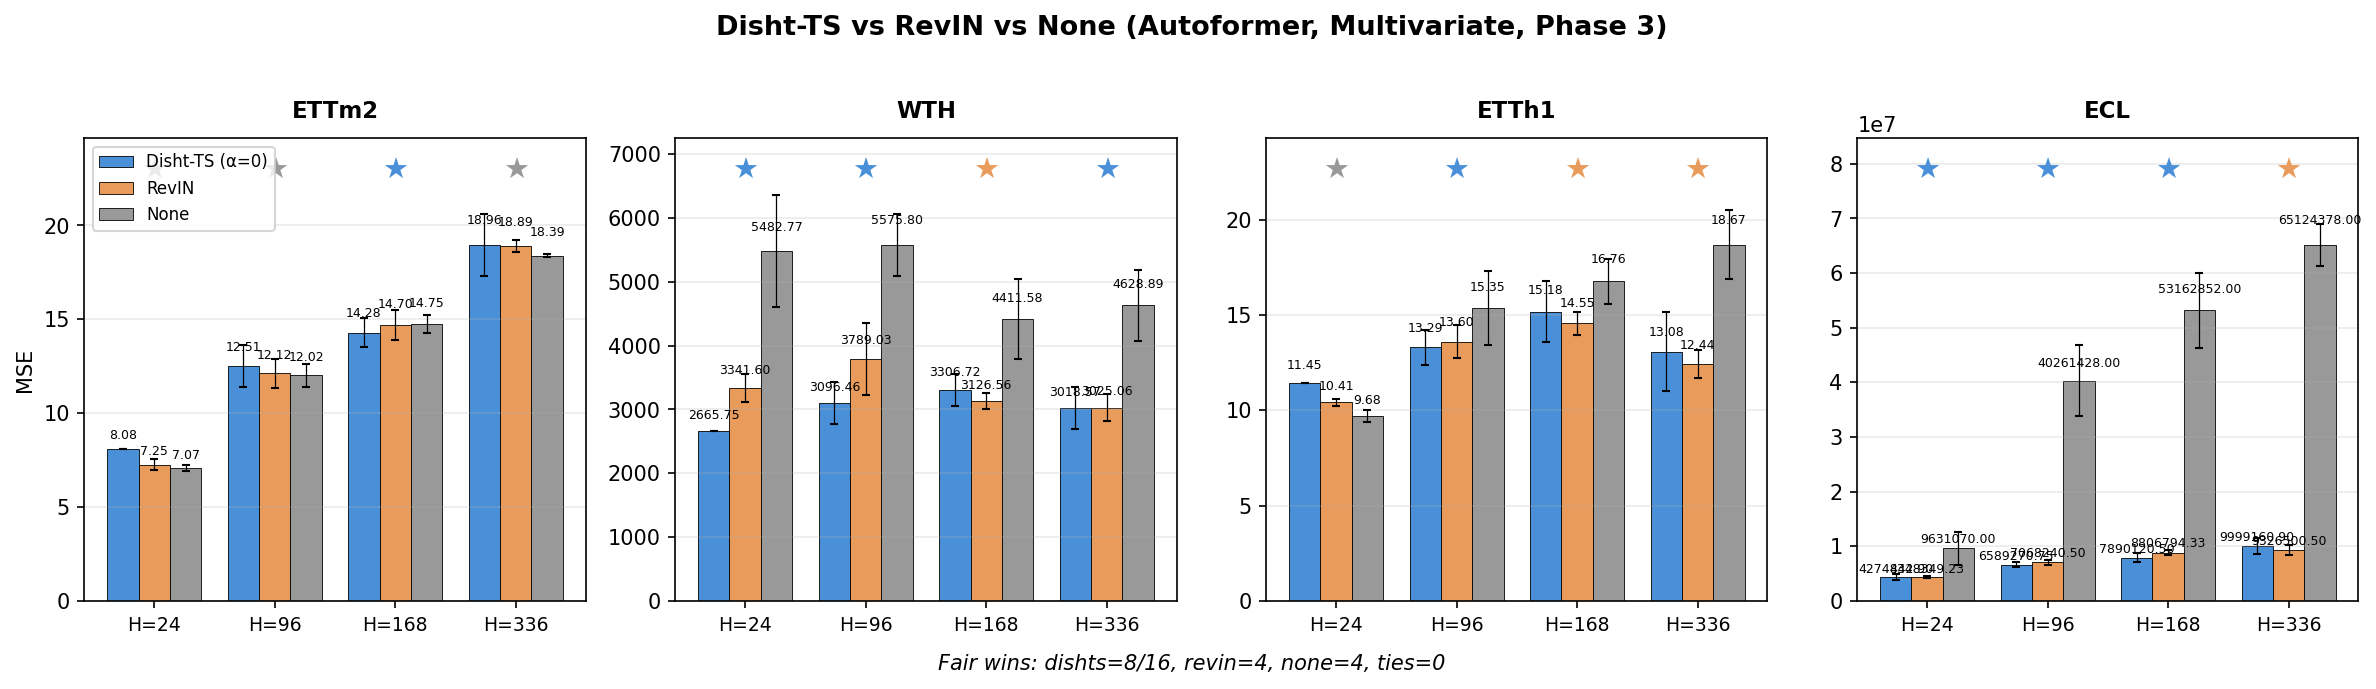
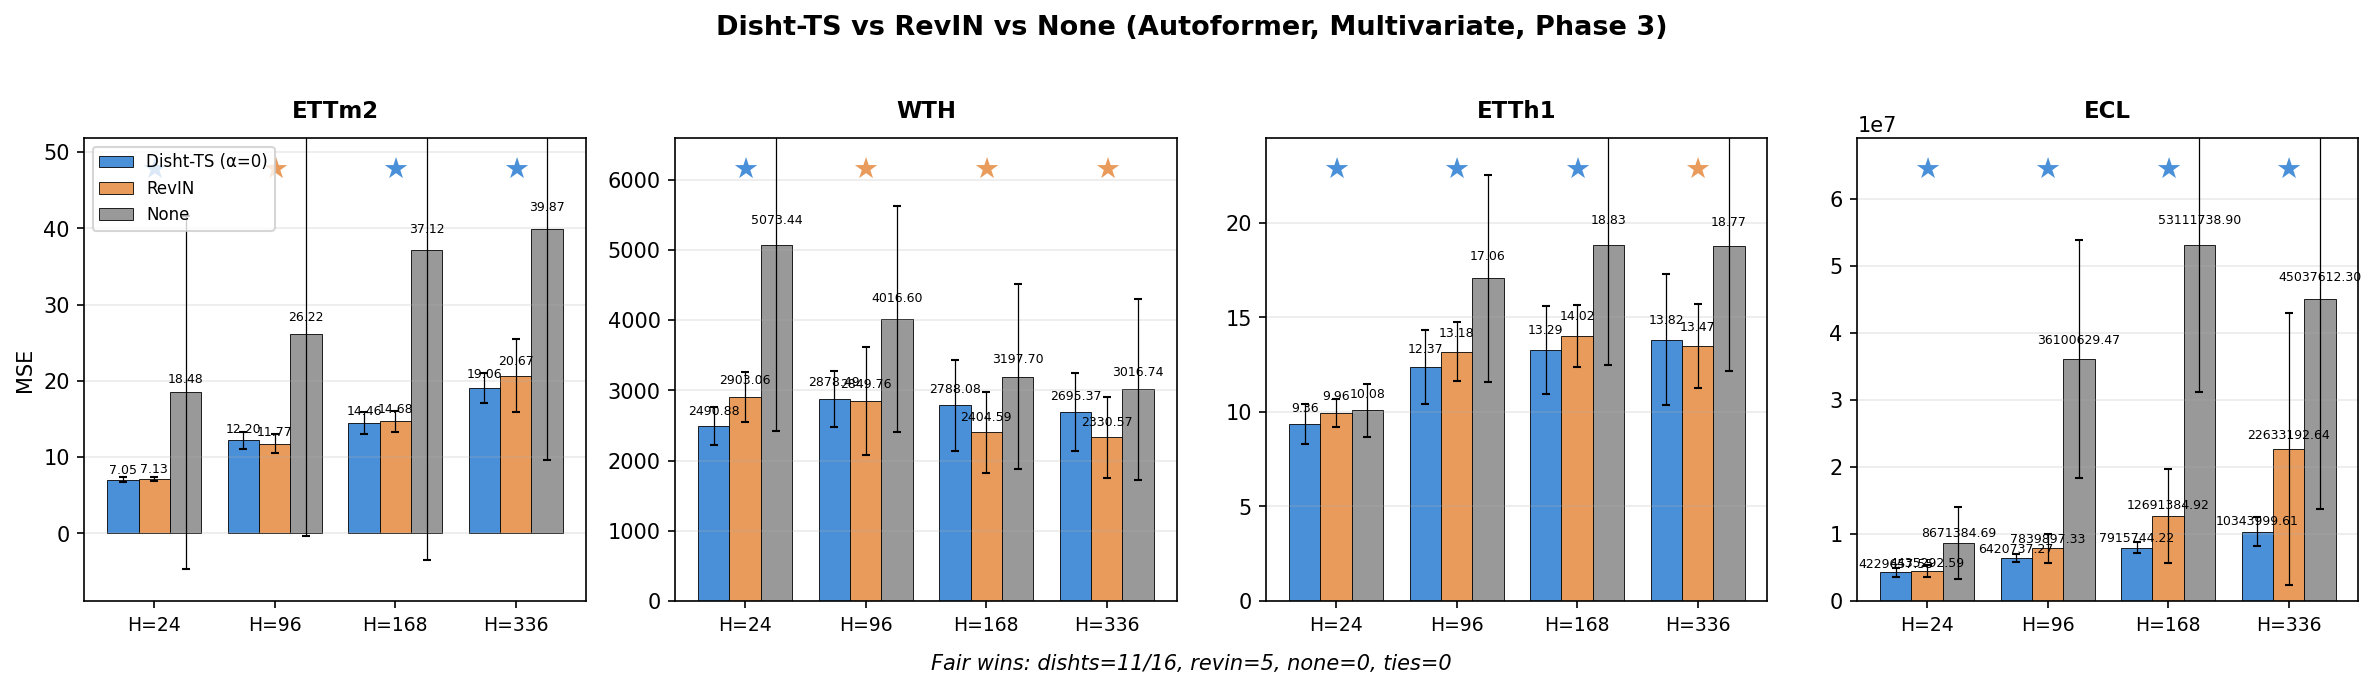
??????????????????Figure 3(4 datasets) + Figure 4 + ???????????????
- Figure 3: ECL/ETTh1/ETTm2/WTH alpha ??????????????? (plot_figure3.py bugfix)
- Figure 3 multi-dataset: 2x2 ????????????
- Figure 4: ETTm2 ?????????????????? (None vs Dish-TS vs RevIN)
- summary_comparison.png: ??????+?????????+??????+horizon ???????????????
- CSV 1341 ???????????????

diff --git a/repro_figures/plot_figure3.py b/repro_figures/plot_figure3.py
@@ -99,9 +99,13 @@ def _plot(agg: dict, out_dir: Path) -> list[Path]:
         nrows = (len(preds) + ncols - 1) // ncols
         fig, axes = plt.subplots(nrows, ncols, figsize=(4 * ncols + 1, 3 * nrows + 1),
                                  sharey=False)
-        if not isinstance(axes, list):
-            axes = [axes]
-        axes_flat = [a for row in axes for a in row] if nrows > 1 else axes
+        import numpy as np
+        if isinstance(axes, np.ndarray):
+            axes_flat = list(axes.flatten())
+        elif isinstance(axes, list):
+            axes_flat = axes
+        else:
+            axes_flat = [axes]
         fig.suptitle(f"Figure 3 — alpha sensitivity ({ds})", fontsize=12)
 
         for ax, pred_len in zip(axes_flat, preds):
